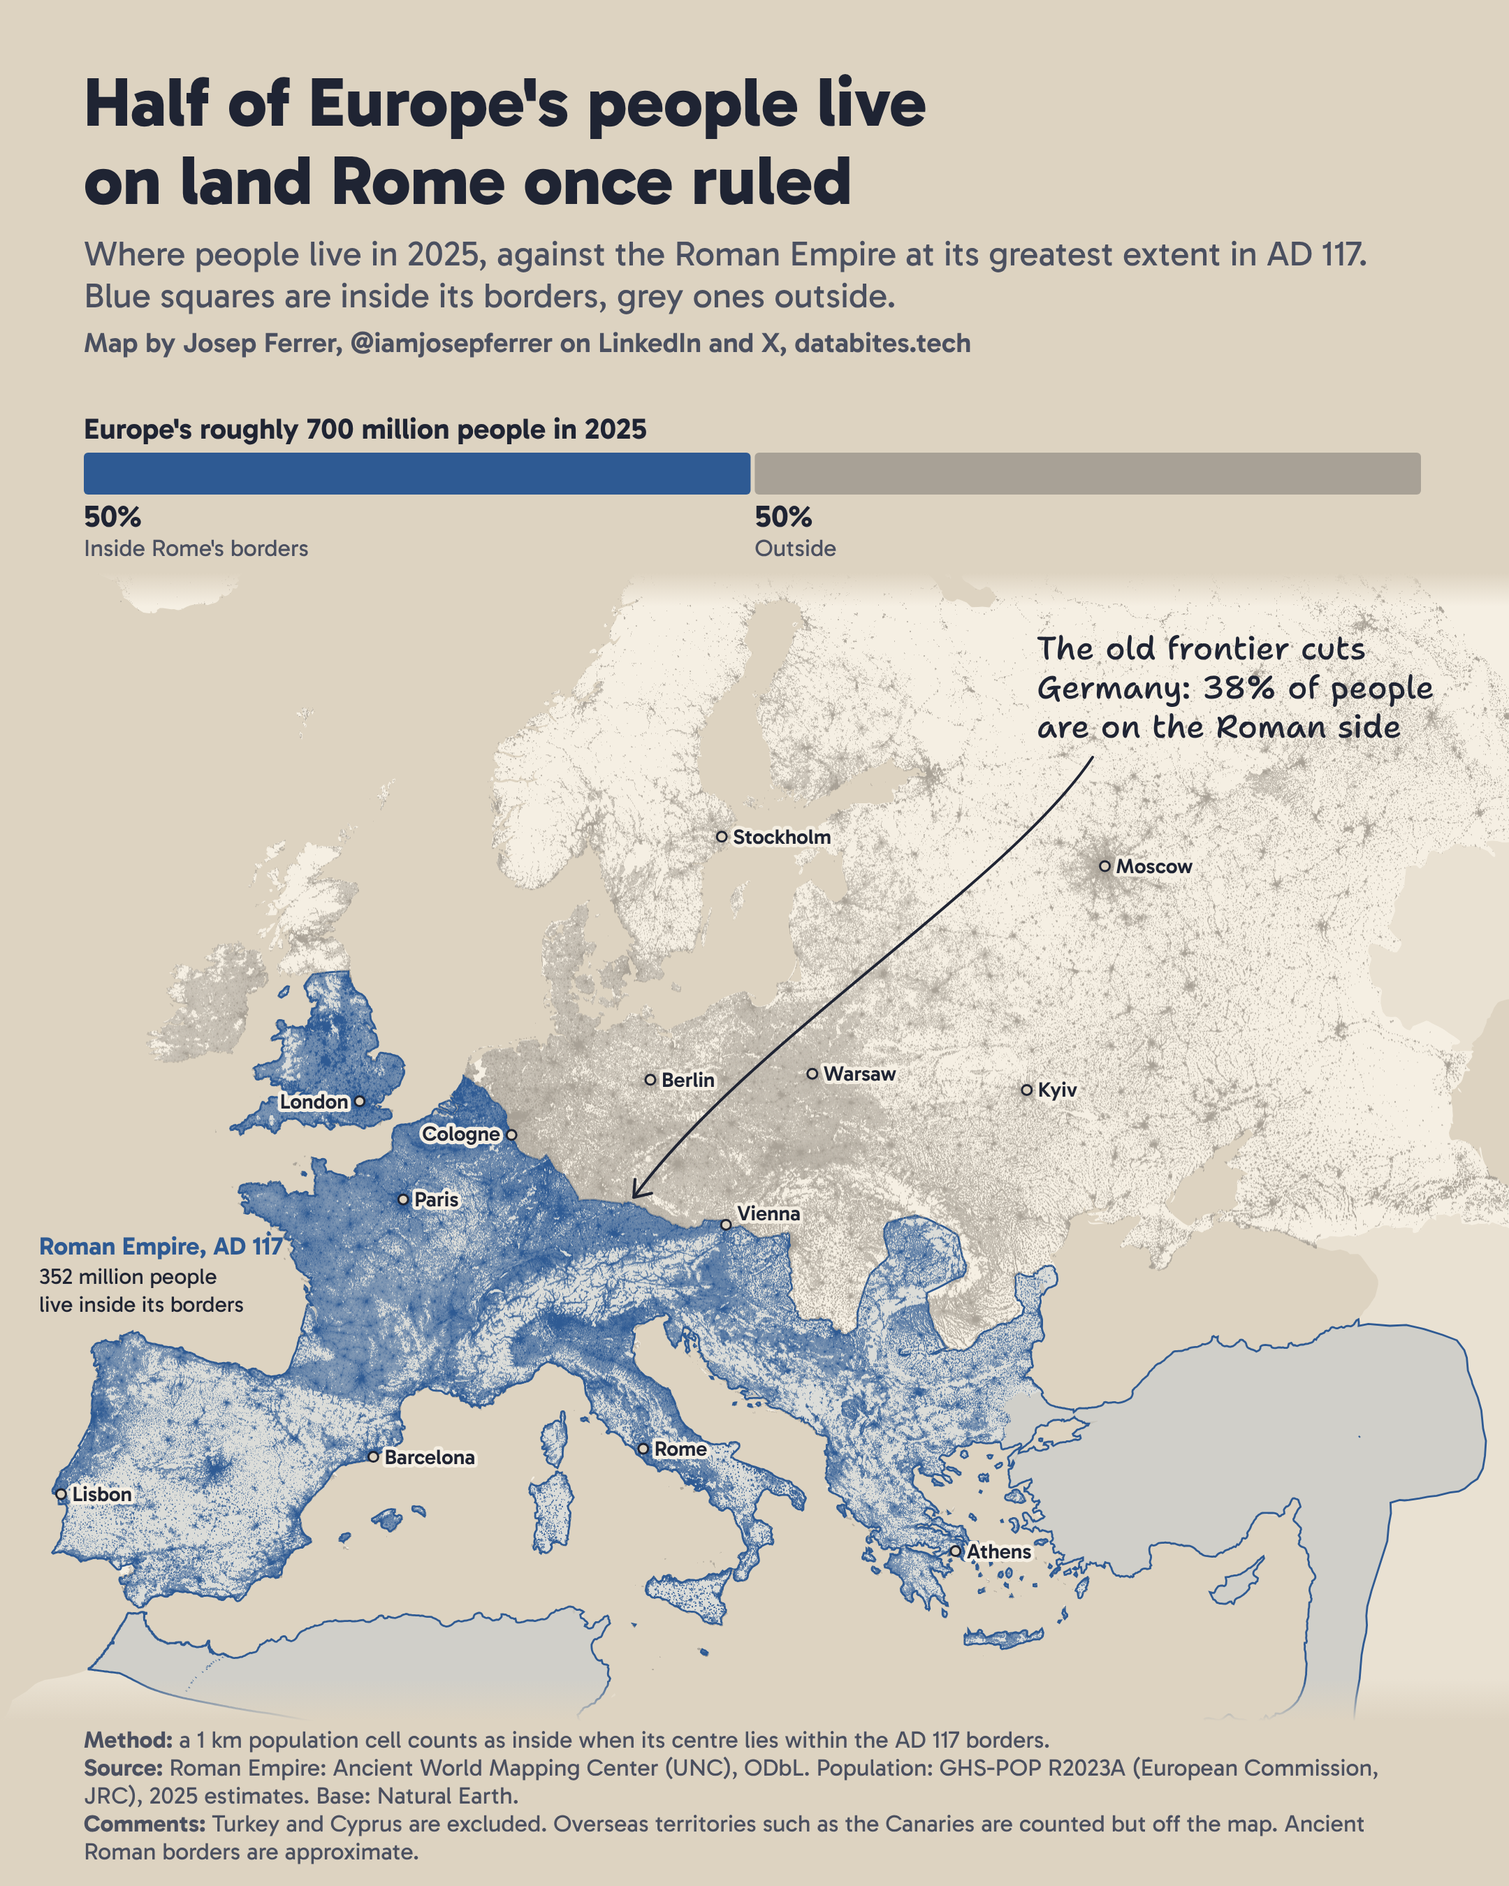
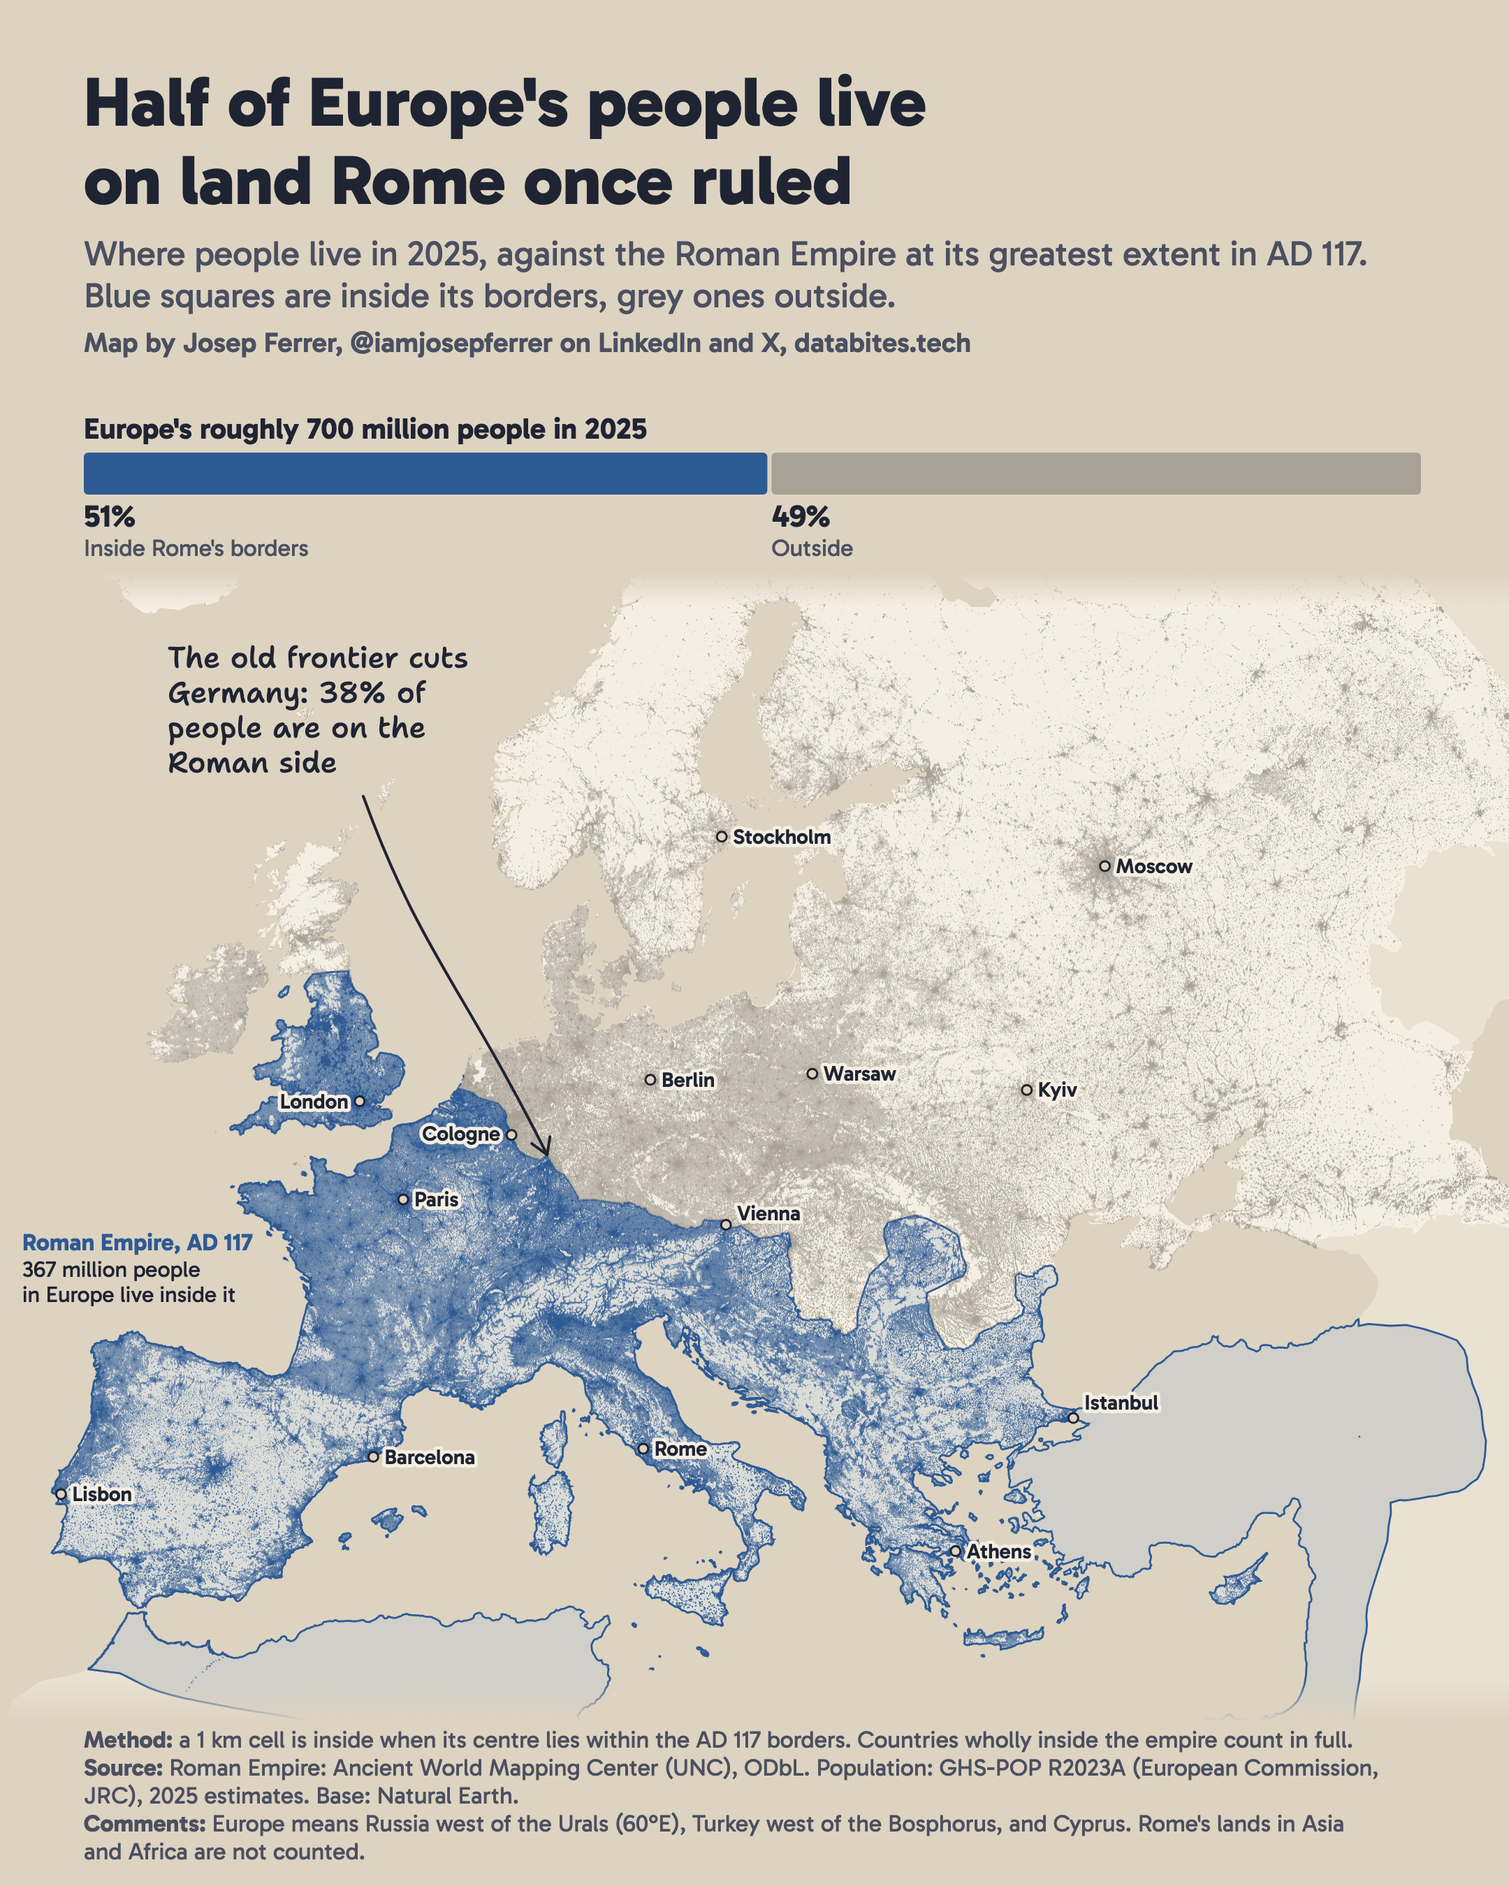
Day 6: corrected Roman borders, add Cyprus and European Turkey

diff --git a/2026/day06_vintage/day06_vintage.py b/2026/day06_vintage/day06_vintage.py
@@ -15,7 +15,8 @@ import rasterio.warp
 import requests
 from PIL import Image
 from pyproj import Transformer
-from shapely.geometry import box
+from shapely import segmentize, union_all
+from shapely.geometry import Point, Polygon, box
 
 HERE = Path(__file__).resolve().parent
 sys.path.insert(0, str(HERE.parent / "common"))
@@ -28,7 +29,7 @@ COUNTRIES_10M = "https://raw.githubusercontent.com/nvkelso/natural-earth-vector/
 POP_NAME = "GHS_POP_E2025_GLOBE_R2023A_4326_30ss_V1_0"  # the same file as compute_europe_population.py on Day 1
 POP_URL = ("https://jeodpp.jrc.ec.europa.eu/ftp/jrc-opendata/GHSL/GHS_POP_GLOBE_R2023A/"
            f"GHS_POP_E2025_GLOBE_R2023A_4326_30ss/V1-0/{POP_NAME}.zip")
-# The same Europe as Day 1: west of 60°E, without Turkey or Cyprus
+# Geographic Europe: the same countries as Day 1, west of 60°E, plus Cyprus and Turkey west of the Bosphorus
 SCOPE = {
     "United Kingdom", "Ireland", "France", "Spain", "Portugal", "Germany", "Netherlands",
     "Belgium", "Luxembourg", "Switzerland", "Austria", "Italy", "Denmark", "Norway", "Sweden",
@@ -37,7 +38,7 @@ SCOPE = {
     "Montenegro", "Kosovo", "North Macedonia", "Albania", "Greece", "Bulgaria", "Romania",
     "Moldova", "Ukraine", "Belarus", "Russia", "Malta", "Jersey", "Andorra", "Liechtenstein",
     "Monaco", "San Marino", "Vatican", "Guernsey", "Isle of Man", "Faroe Islands", "Aland",
-    "Gibraltar",
+    "Gibraltar", "Cyprus", "Northern Cyprus",
 }
 to_map = Transformer.from_crs(4326, 3035, always_xy=True)
 
@@ -49,10 +50,28 @@ if not raster.exists():
     response.raise_for_status()
     with zipfile.ZipFile(io.BytesIO(response.content)) as archive:
         archive.extract(raster.name, DATA_DIR)
-empire_4326 = gpd.read_file(_download(AWMC, DATA_DIR / "roman_empire_ce_117_extent.geojson")).to_crs(4326).buffer(0).union_all()
+world_full = gpd.read_file(_download(COUNTRIES_10M, DATA_DIR / "ne_10m_admin_0_countries.geojson"))[["ADMIN", "geometry"]]
+world_full["geometry"] = world_full.geometry.buffer(0)
+by_name = lambda *names: world_full[world_full.ADMIN.isin(names)].geometry.union_all()
+thrace = next(part for part in by_name("Turkey").geoms if part.contains(Point(27.5, 41.5)))  # Turkey west of the Bosphorus
+world_10m = world_full[world_full.ADMIN.isin(SCOPE)].reset_index(drop=True)
+world_10m = pd.concat([world_10m, gpd.GeoDataFrame({"ADMIN": ["Turkey, European part"], "geometry": [thrace]}, crs=4326)], ignore_index=True)
+
+# The AD 117 borders, with three fixes to the simplified outline (checked against 36 frontier towns):
+# countries wholly inside the empire count in full, so coastal cells and small islands are not lost;
+# in the Netherlands the frontier follows the Old Rhine through Leiden and Utrecht, so North Holland is outside;
+# and Buda, the site of the legionary fortress of Aquincum on the Danube's right bank, is inside
+WHOLLY_ROMAN = ["Portugal", "Spain", "France", "Monaco", "Andorra", "Italy", "San Marino", "Vatican", "Malta", "Greece",
+                "Belgium", "Luxembourg", "Switzerland", "Liechtenstein", "Slovenia", "Croatia", "Bosnia and Herzegovina",
+                "Montenegro", "Albania", "North Macedonia", "Kosovo", "Bulgaria", "Cyprus", "Northern Cyprus", "Gibraltar"]
+assert set(WHOLLY_ROMAN) <= set(world_full.ADMIN), set(WHOLLY_ROMAN) - set(world_full.ADMIN)
+wholly = union_all([by_name(*WHOLLY_ROMAN).intersection(box(-12, 34, 45, 60)), thrace])  # the box leaves out the Canaries, Madeira and the Azores
+north_of_old_rhine = Polygon([(3, 52.20), (4.40, 52.20), (5.12, 52.09), (5.34, 51.97), (6.10, 51.87),
+                              (7.30, 51.87), (7.30, 54), (3, 54)]).intersection(by_name("Netherlands"))
+buda = Polygon([(18.85, 47.40), (19.06, 47.40), (19.05, 47.48), (19.04, 47.56), (19.06, 47.62), (18.85, 47.62)])
+awmc = gpd.read_file(_download(AWMC, DATA_DIR / "roman_empire_ce_117_extent.geojson")).to_crs(4326).buffer(0).union_all()
+empire_4326 = union_all([awmc, wholly, buda]).difference(north_of_old_rhine)
 empire = gpd.GeoSeries([empire_4326], crs=4326).to_crs(3035).buffer(0).iloc[0]
-world_10m = gpd.read_file(_download(COUNTRIES_10M, DATA_DIR / "ne_10m_admin_0_countries.geojson"))[["ADMIN", "geometry"]]
-world_10m = world_10m[world_10m.ADMIN.isin(SCOPE)].reset_index(drop=True)
 world_10m["geometry"] = world_10m.geometry.buffer(0).intersection(box(-32, 27, 60, 82))
 with rasterio.open(raster) as source:
     window = source.window(-32, 27, 60, 82).round_offsets().round_lengths()
@@ -64,12 +83,11 @@ in_europe = rasterio.features.rasterize(
     [(world_10m.geometry.union_all(), 1)], out_shape=people.shape, transform=transform, fill=0, dtype="uint8", all_touched=True) == 1
 people[~in_europe] = 0
 inside = rasterio.features.rasterize([(empire_4326, 1)], out_shape=people.shape, transform=transform, fill=0, dtype="uint8") == 1
+# In countries wholly inside the empire, coastal cells count too, the same way they count for Europe
+inside |= rasterio.features.rasterize([(wholly, 1)], out_shape=people.shape, transform=transform, fill=0, dtype="uint8", all_touched=True) == 1
 total, in_rome = people.sum(), people[inside].sum()
 share = in_rome / total
 print(f"{total / 1e6:.1f}M people, {in_rome / 1e6:.1f}M inside ({share:.1%})")
-near_coast = rasterio.features.rasterize([(gpd.GeoSeries([empire], crs=3035).buffer(3000).to_crs(4326).buffer(0).iloc[0], 1)],
-                                         out_shape=people.shape, transform=transform, fill=0, dtype="uint8") == 1
-print(f"With 3 km around the borders: {people[near_coast].sum() / total:.1%}")
 
 labels = rasterio.features.rasterize(
     ((shape, i + 1) for i, shape in enumerate(world_10m.geometry)), out_shape=people.shape, transform=transform, fill=0, dtype="int32")
@@ -89,8 +107,11 @@ frame = Frame(2470000, 7300000, 1220000, 1220000 + (1232 - MAP_TOP) / 1080 * 483
 world = countries().to_crs(3035)
 world["geometry"] = world.geometry.buffer(0).intersection(frame.box().buffer(100000))
 world = world[~world.geometry.is_empty]
-in_scope = world[world.ADMIN.isin(SCOPE)].geometry.union_all()
-out_scope = world[~world.ADMIN.isin(SCOPE)].geometry.union_all()
+# Land outside the scope, including Asian Turkey and Russia east of 60°E, is drawn without people
+scope_box = gpd.GeoSeries([segmentize(box(-32, 27, 60, 82), 0.5)], crs=4326).to_crs(3035).iloc[0]
+thrace_3035 = gpd.GeoSeries([thrace], crs=4326).to_crs(3035).buffer(0).iloc[0]
+in_scope = union_all([world[world.ADMIN.isin(SCOPE)].geometry.union_all(), thrace_3035]).intersection(scope_box)
+out_scope = world.geometry.union_all().difference(in_scope)
 rome_shape = empire.intersection(frame.box().buffer(100000))
 
 # 3. People: blocks at the printed resolution, blue inside the empire and grey outside, darker where more people live
@@ -135,7 +156,7 @@ CITIES = {
     "London": (-0.12, 51.51, -8, 5, "end"), "Cologne": (6.96, 50.94, -8, 4, "end"), "Vienna": (16.37, 48.21, 8, -3, "start"),
     "Athens": (23.73, 37.98, 8, 5, "start"), "Lisbon": (-9.14, 38.72, 8, 5, "start"), "Berlin": (13.40, 52.52, 8, 5, "start"),
     "Warsaw": (21.01, 52.23, 8, 5, "start"), "Stockholm": (18.07, 59.33, 8, 5, "start"), "Kyiv": (30.52, 50.45, 8, 5, "start"),
-    "Moscow": (37.62, 55.75, 8, 5, "start"),
+    "Moscow": (37.62, 55.75, 8, 5, "start"), "Istanbul": (28.98, 41.01, 8, -6, "start"),
 }
 for name, (lon, lat, dx, dy, anchor) in CITIES.items():
     x, y = frame.xy(*to_map.transform(lon, lat))
@@ -143,21 +164,21 @@ for name, (lon, lat, dx, dy, anchor) in CITIES.items():
     svg.append(text(x + dx, y + dy, name, 15, 600, C["ink"], anchor, halo=C["page"]))
 
 # 6. Direct labels, as on Day 5
-svg.append(text(28, 898, "Roman Empire, AD 117", 18, 700, C["blue"]))
-svg.append(text(28, 919, f"{in_rome / 1e6:.0f} million people", 16, 400, C["ink"]))
-svg.append(text(28, 939, "live inside its borders", 16, 400, C["ink"]))
+svg.append(text(16, 895, "Roman Empire, AD 117", 17, 700, C["blue"]))
+svg.append(text(16, 914, f"{in_rome / 1e6:.0f} million people", 16, 400, C["ink"]))
+svg.append(text(16, 932, "in Europe live inside it", 16, 400, C["ink"]))
 
-# 7. One handwritten note on the frontier in Germany
-note_x, note_y = 742, 472
+# 7. One handwritten note in the sea west of Norway, with an arrow to the frontier in Germany
+note_x, note_y = 120, 478
 svg.append(
-    f'<text class="note" x="{note_x}" y="{note_y}" font-size="23" fill="{C["ink"]}">'
-    f'<tspan x="{note_x}">The old frontier cuts</tspan><tspan x="{note_x}" dy="28">Germany: {germany:.0%} of people</tspan><tspan x="{note_x}" dy="28">are on the Roman side</tspan></text>'
+    f'<text class="note" x="{note_x}" y="{note_y}" font-size="21" fill="{C["ink"]}">'
+    f'<tspan x="{note_x}">The old frontier cuts</tspan><tspan x="{note_x}" dy="25">Germany: {germany:.0%} of</tspan>'
+    f'<tspan x="{note_x}" dy="25">people are on the</tspan><tspan x="{note_x}" dy="25">Roman side</tspan></text>'
 )
-ax, ay = frame.xy(*to_map.transform(12.3, 49.0))
-ax, ay = ax + 2, ay - 4
-sx, sy = note_x + 40, note_y + 70
-svg.append(f'<path d="M{sx} {sy} C {sx - 60} {sy + 90}, {ax + 80} {ay - 110}, {ax:.1f} {ay:.1f}" fill="none" stroke="{C["ink"]}" stroke-width="2" stroke-linecap="round"/>')
-svg.append(f'<path d="M{ax + 1:.1f} {ay - 13:.1f} L{ax:.1f} {ay:.1f} L{ax + 13:.1f} {ay - 3:.1f}" fill="none" stroke="{C["ink"]}" stroke-width="2" stroke-linecap="round" stroke-linejoin="round"/>')
+sx, sy = note_x + 140, note_y + 92
+ax, ay = frame.xy(*to_map.transform(8.6, 50.4))
+svg.append(f'<path d="M{sx} {sy} C {sx + 40} {sy + 110}, {ax - 60} {ay - 120}, {ax:.1f} {ay:.1f}" fill="none" stroke="{C["ink"]}" stroke-width="2" stroke-linecap="round"/>')
+svg.append(f'<path d="M{ax - 11:.1f} {ay - 8:.1f} L{ax:.1f} {ay:.1f} L{ax + 2:.1f} {ay - 13:.1f}" fill="none" stroke="{C["ink"]}" stroke-width="2" stroke-linecap="round" stroke-linejoin="round"/>')
 
 # 8. Headline, dek, byline, bar and footer
 svg.append(text(60, 90, "Half of Europe's people live", 50, 800))
@@ -175,9 +196,9 @@ for i, (value, colour, label) in enumerate(((in_rome, C["blue"], "Inside Rome's 
     svg.append(text(x, BAR_Y + BAR_H + 44, label, 17, 400, C["ink2"]))
     x += width
 FOOTER = [
-    ("Method:", "a 1 km population cell counts as inside when its centre lies within the AD 117 borders."),
+    ("Method:", "a 1 km cell is inside when its centre lies within the AD 117 borders. Countries wholly inside the empire count in full."),
     ("Source:", "Roman Empire: Ancient World Mapping Center (UNC), ODbL. Population: GHS-POP R2023A (European Commission, JRC), 2025 estimates. Base: Natural Earth."),
-    ("Comments:", "Turkey and Cyprus are excluded. Overseas territories such as the Canaries are counted but off the map. Ancient Roman borders are approximate."),
+    ("Comments:", "Europe means Russia west of the Urals (60°E), Turkey west of the Bosphorus, and Cyprus. Rome's lands in Asia and Africa are not counted."),
 ]
 svg += footer(FOOTER, x=60, y=1251, width=960, size=17, line_height=20)
 

diff --git a/2026/README.md b/2026/README.md
@@ -224,37 +224,39 @@ The 2026 path covered cities such as A Coruña, Oviedo, Bilbao, Valladolid, Zara
 
 ### What it shows
 
-The Roman Empire reached its greatest extent in AD 117. Laying those borders over today's population, 351.9 million of Europe's 703.5 million people (50%) live on land Rome once ruled.
+The Roman Empire reached its greatest extent in AD 117. Laying those borders over today's population, 366.9 million of Europe's 715.7 million people (51%) live on land Rome once ruled.
 
 | Country | People in 2025 | Share inside the AD 117 borders |
 | --- | ---: | ---: |
-| France | 64.2 million | 99% |
-| Italy | 57.7 million | 98% |
-| Spain | 46.5 million | 91% |
+| France | 64.2 million | 100% |
+| Italy | 57.7 million | 100% |
+| Turkey, European part | 10.7 million | 100% |
+| Spain | 46.5 million | 96% |
 | United Kingdom | 67.4 million | 87% |
+| Netherlands | 17.6 million | 47% |
 | Germany | 83.2 million | 38% |
 | Poland | 39.7 million | 0% |
 | Russia, west of 60°E | 110.3 million | 0% |
 
-Every country is in [`results.csv`](day06_vintage/results.csv).
+Spain and Portugal are below 100% only because the Canaries, Madeira and the Azores were never Roman. Every country is in [`results.csv`](day06_vintage/results.csv).
 
 ### How it was made
 
 1. **Get the borders:** the Roman Empire's AD 117 extent from the Ancient World Mapping Center, derived from the Barrington Atlas.
-2. **Count the people:** GHS-POP's 2025 estimates at about 1 km, for the same Europe as Day 1: west of 60°E, without Turkey or Cyprus. A cell counts as inside when its centre lies within the borders.
-3. **Check the borders:** cities such as Cologne, Vienna and Barcelona fall inside, and Berlin and Warsaw outside. An earlier test with a coarser historical dataset placed Vienna outside the empire, so it was dropped.
-4. **Check the population:** for the EU, Norway and Switzerland, GHS-POP gives 60.9% inside and Eurostat's Census 2021 grid gives 61.1%.
-5. **Check the totals:** the 703.5 million is within about 1% of the UN's 2025 figure for Europe once Russia east of 60°E is removed. For the 33 countries with Eurostat 2025 figures, GHS-POP's total is 98% of the official one, although single countries differ (Norway -17%, Albania +19%). Using official figures where available gives 50.7%, and assuming only 30 million people in Ukraine gives 51.2%.
-6. **Draw the map:** people in small blocks, blue inside the empire and grey outside, darker where more people live. Blocks with fewer than 25 people are left out of the drawing, because GHS-POP spreads tiny modelled values over empty land. They still count in the totals.
+2. **Check the borders** against 36 frontier towns. The main frontiers hold: in Britain the border runs from the Tyne to the Solway, so Edinburgh is outside; on the Rhine, Cologne is inside and Düsseldorf's east bank outside; on the German limes, Frankfurt and Stuttgart are inside and Giessen and Nuremberg outside; on the Danube, central Vienna is inside and its north bank outside; and Dacia covers Transylvania and Oltenia.
+3. **Fix three problems:** the simplified coastline left out coastal cells and small islands such as the Balearics and Malta, so countries wholly inside the empire count in full. The Dutch frontier follows the Old Rhine through Leiden and Utrecht, so Amsterdam is outside. Buda, the site of the legionary fortress of Aquincum, is inside.
+4. **Count the people:** GHS-POP's 2025 estimates at about 1 km, for geographic Europe: the same countries as Day 1, west of 60°E, plus Cyprus and Turkey west of the Bosphorus. A cell counts as inside when its centre lies within the borders.
+5. **Check the population:** for the EU, Norway and Switzerland, GHS-POP gives 61.2% inside and Eurostat's Census 2021 grid gives 61.7%.
+6. **Check the totals:** for the 33 countries with Eurostat 2025 figures, GHS-POP's total is 98% of the official one, although single countries differ (Norway -17%, Albania +19%). Assuming only 30 million people in Ukraine gives 51.7%.
+7. **Draw the map:** people in small blocks, blue inside the empire and grey outside, darker where more people live. Blocks with fewer than 25 people are left out of the drawing, because GHS-POP spreads tiny modelled values over empty land. They still count in the totals. Asian Turkey and Russia east of 60°E are drawn as land without people.
 
 ### Limitations
 
-- **Ancient frontiers are approximate.** Places close to the line can fall on the wrong side. Amsterdam, for example, lands inside, although the Rhine frontier ran south of it, so the Netherlands' share is likely too high.
+- **Ancient frontiers are approximate.** Places close to the line can fall on the wrong side. Muntenia, around Bucharest, and the Banat, around Timișoara, are outside: Trajan held Muntenia only until Hadrian gave it up in 117 and 118, and the Banat's status is debated. Counting both would give 52.3%.
 - **Greatest extent is a single moment.** Rome did not rule all of this land for long. Dacia, in today's Romania, was held for about 170 years.
-- **Scope drives the number.** Russia, Belarus and Ukraine add 156 million people, almost all outside the empire. Without them, the share is about 65%.
-- **Coasts:** some coastal cells fall outside the borders. Allowing 3 km around them gives 51.6%, so "half" holds.
+- **Scope drives the number.** Russia, Belarus and Ukraine add 156 million people, almost all outside the empire. Without them, the share is about 66%.
 - **Population:** GHS-POP is a modelled 2025 estimate, projected from census data and spread across built-up areas. It is not a census count and has no single census year. Day 4 needs a real count of empty squares, so it uses Eurostat's Census 2021 grid instead.
-- **Who is left out:** Turkey's European side, Cyprus, the Caucasus and western Kazakhstan are not counted, the same as Day 1.
+- **Who is left out:** Asian Turkey, the Caucasus, western Kazakhstan and Rome's lands in Africa and Asia are not counted.
 
 **Files:** [`day06_vintage.py`](day06_vintage/day06_vintage.py) does everything, and [`results.csv`](day06_vintage/results.csv) lists every country.
 
